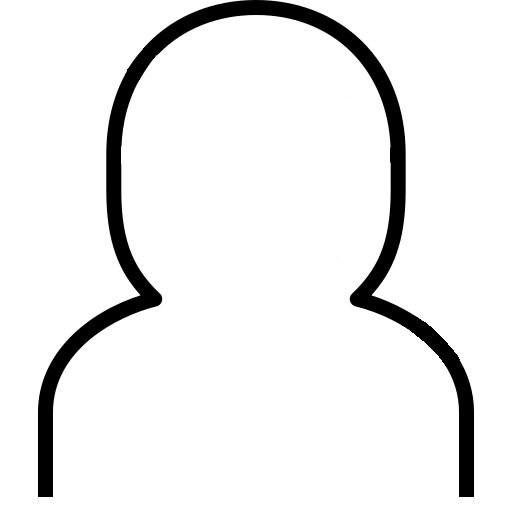
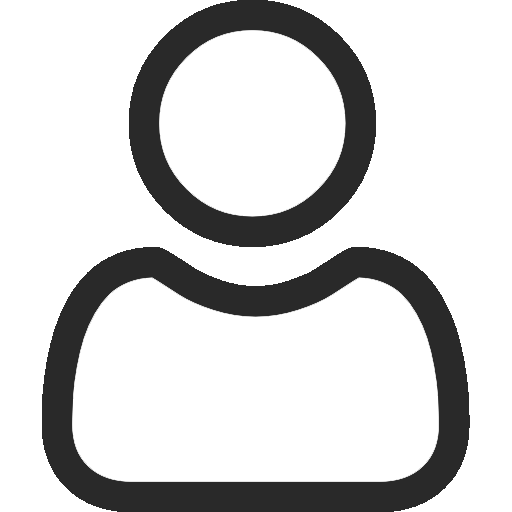
210514-2

Changed region(s): [[0.0625, 0.0, 0.9375, 1.0]]

diff --git a/index.html b/index.html
@@ -36,7 +36,7 @@
 
     <div class="header">
        <div class="user-btn">
-           <a href="#"><img src="images/car-key.png" alt="user"></a>
+           <a href="#"><img src="images/user.png" alt="user"></a>
        </div>
         <div class="logo-btn">
             <a href="index.html">
@@ -98,7 +98,9 @@
         <div class="sidebar-search">
             <div class="search-wrap">
                 <input type="search" class="search-txt" placeholder="검색어를 입력해주세요">
-                <img src="images/finder4-white2.png" alt="search-button">
+                <a herf="#">
+                    <img src="images/finder4-white2.png" alt="search-button">
+                </a>
             </div>
         </div>
         <ul class="menu-wrap">

diff --git a/css/style.css b/css/style.css
@@ -194,10 +194,11 @@ html {
     padding-left:10px;
     overflow: hidden;
 }
-.sidebar-menu .sidebar-search .search-wrap img:nth-child(2){
+.sidebar-menu .sidebar-search .search-wrap a img{
     width:25px;
     float:right;
     margin-top:7px;
+    cursor: pointer;
 } 
 
 .menu-wrap {
